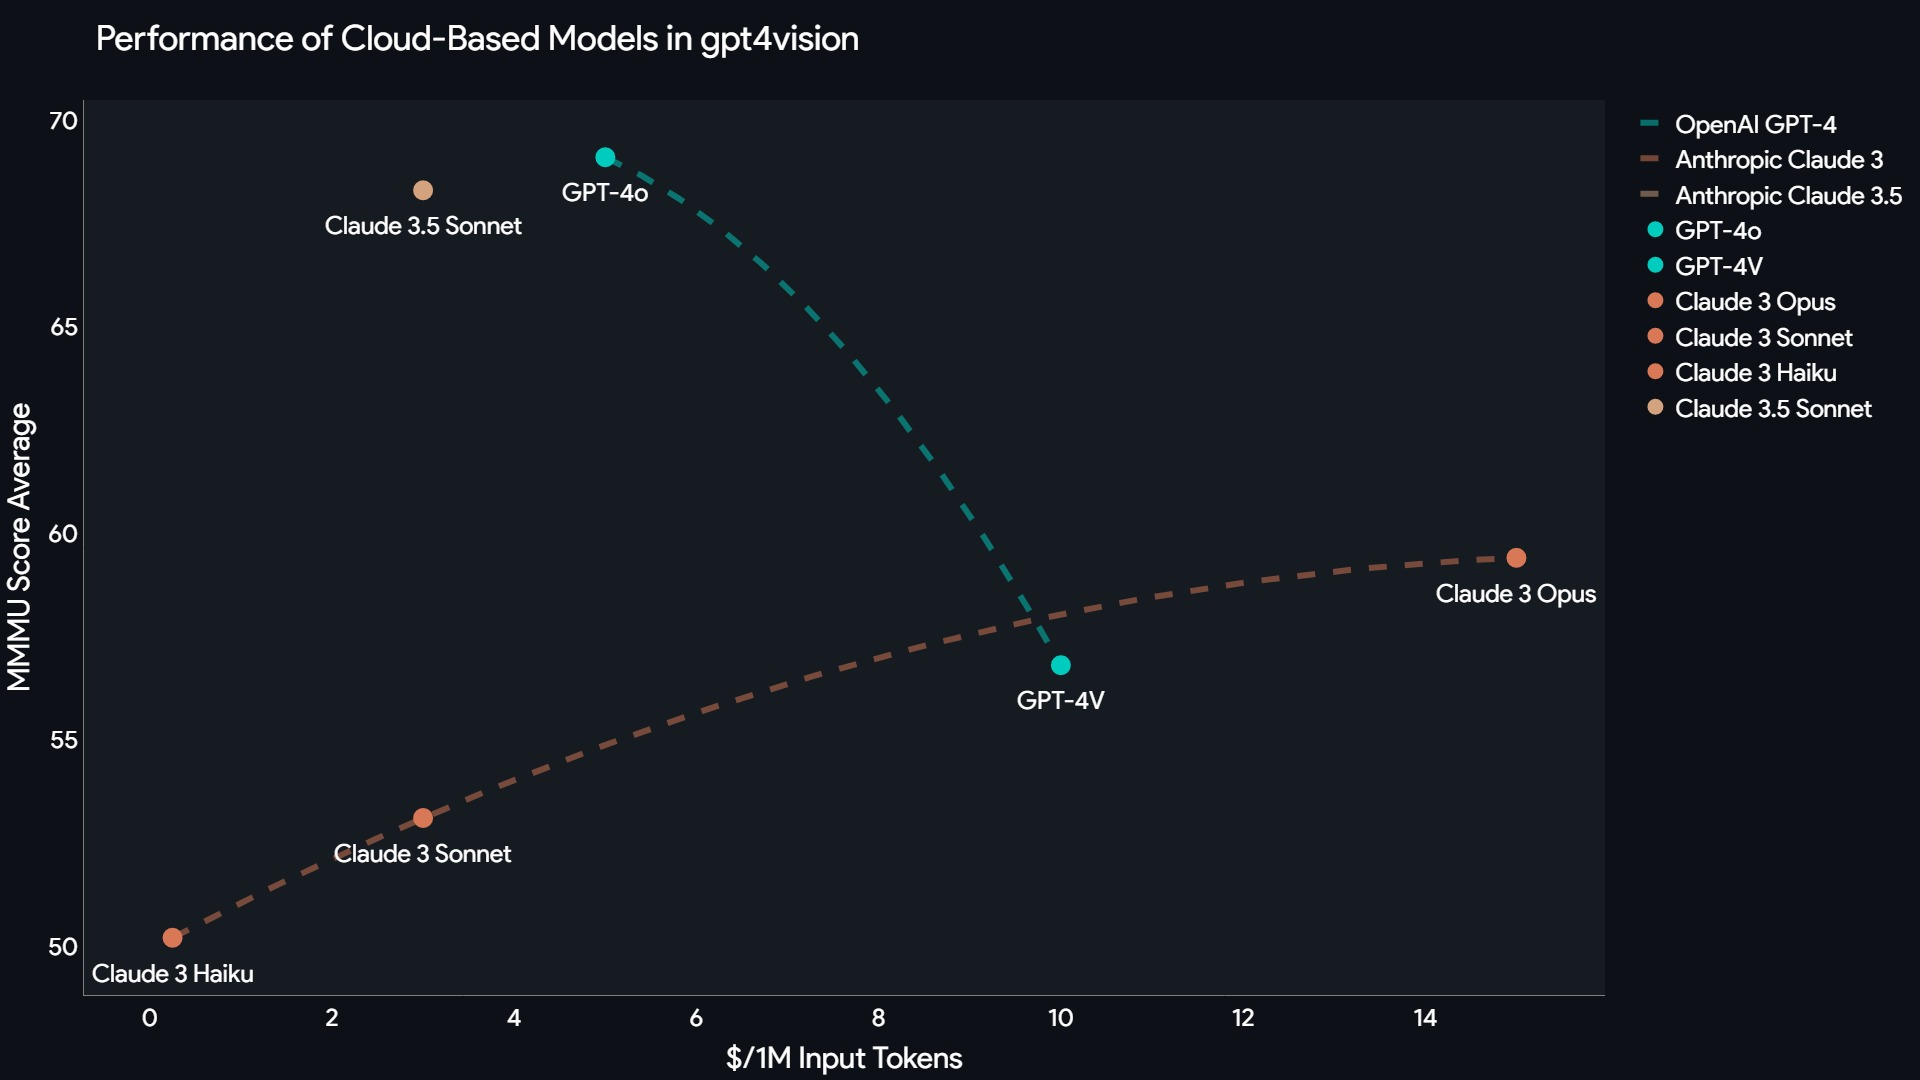
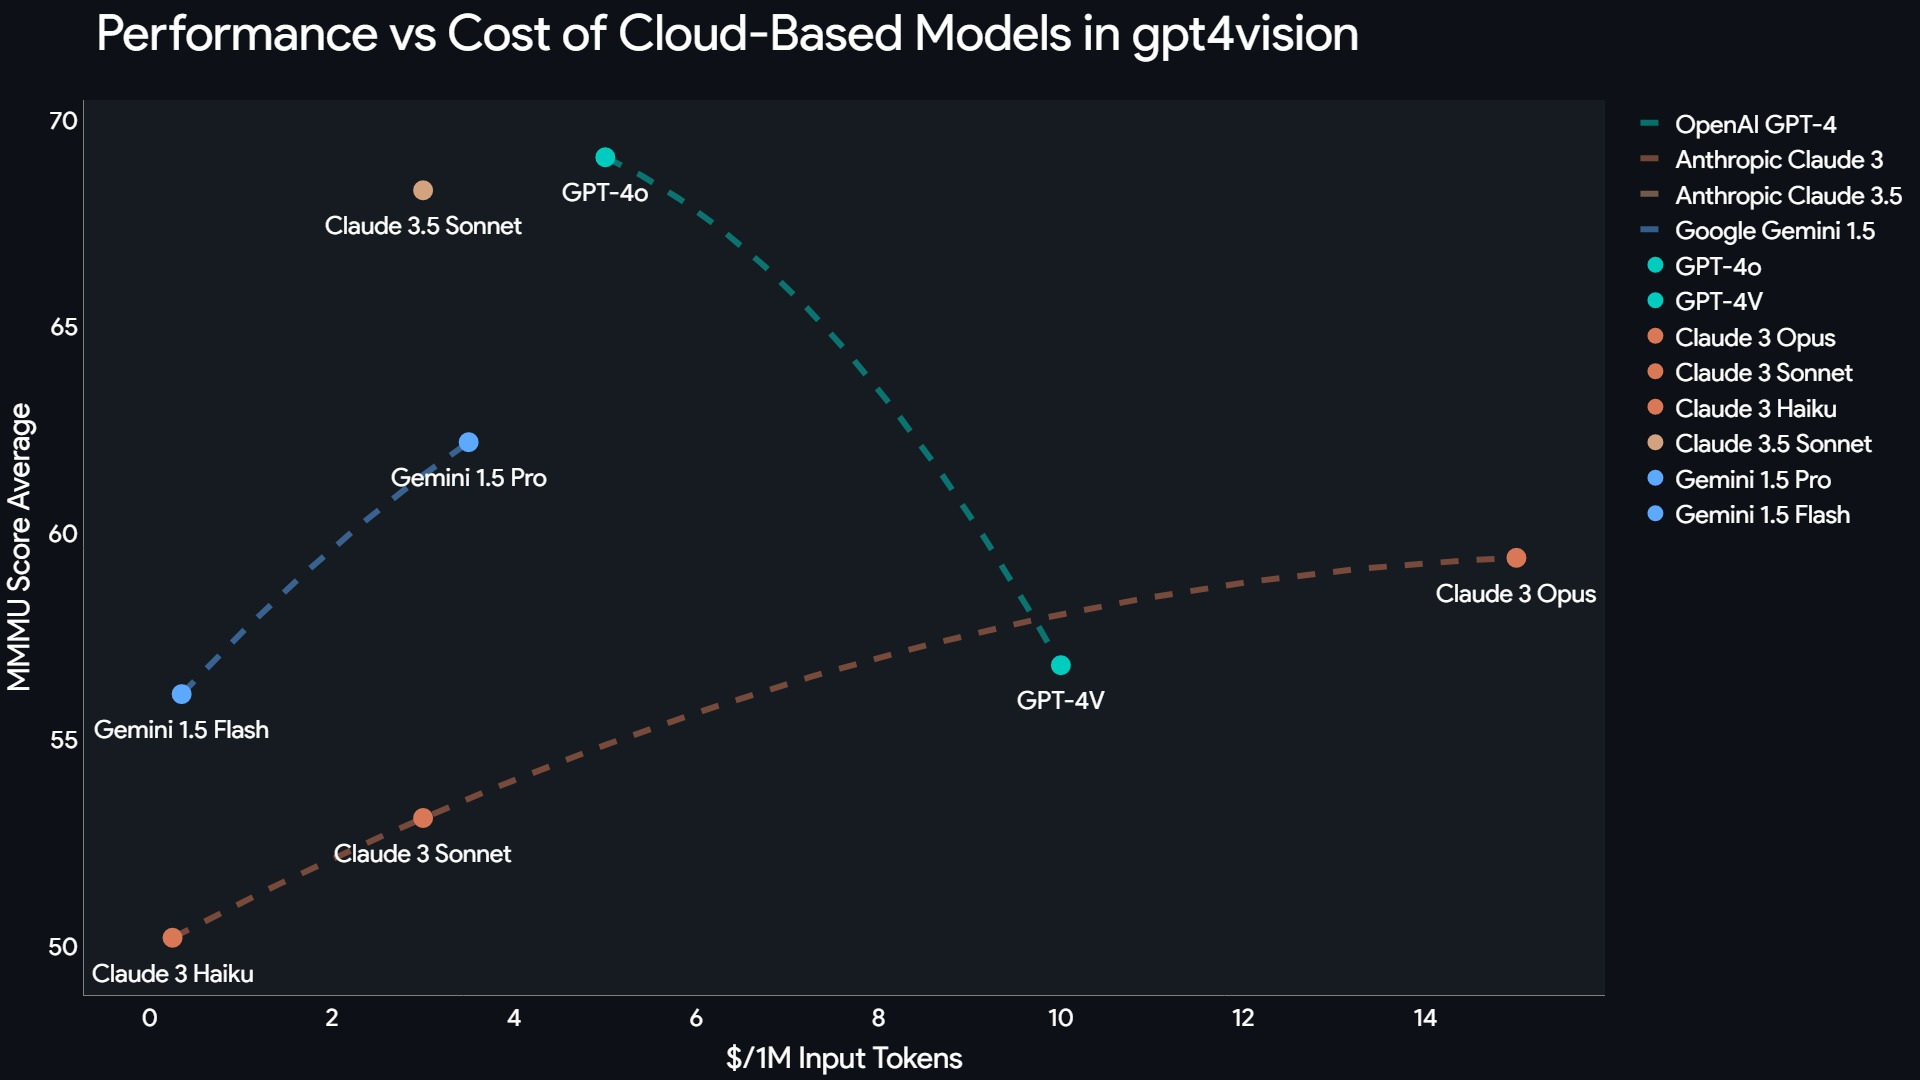
chore: Updated README for v0.4.5

diff --git a/benchmark_visualization/model_benchmark_visualizer.py b/benchmark_visualization/model_benchmark_visualizer.py
@@ -46,7 +46,8 @@ def create_benchmark_visualization(df: pd.DataFrame):
     df['Category'] = df['Model'].apply(categorize_model)
 
     # Set order for legend
-    category_order = ['GPT-4', 'Claude 3', 'Claude 3.5']  # Add 'Gemini 1.5'
+    category_order = ['GPT-4', 'Claude 3',
+                      'Claude 3.5', 'Gemini 1.5']  # Add 'Gemini 1.5'
     df['Category'] = pd.Categorical(
         df['Category'], categories=category_order, ordered=True)
     df = df.sort_values('Category')
@@ -77,26 +78,26 @@ def create_benchmark_visualization(df: pd.DataFrame):
     for index, model in df.iterrows():
         try:
             fig.add_trace(go.Scatter(x=[model['Cost']], y=[model['Overall']],
-                        mode='markers', # Removed 'text' from mode
-                        name=model['Model'], marker=dict(size=20, color=colors[model['Category']])))
+                                     mode='markers',  # Removed 'text' from mode
+                                     name=model['Model'], marker=dict(size=20, color=colors[model['Category']])))
         except Exception as e:
             continue
-    
+
         # Add model name
         fig.add_annotation(x=model['Cost'], y=model['Overall'],
                            text=model['Model'],
                            showarrow=False,
                            yshift=-35)
 
-    fig.update_layout(title='Performance of Cloud-Based Models in gpt4vision',
+    fig.update_layout(title={'text': 'Performance vs Cost of Cloud-Based Models in gpt4vision',
+                             'font': {'size': 50}},
                       xaxis_title='$/1M Input Tokens', yaxis_title='MMMU Score Average',
                       paper_bgcolor='#0d1117', plot_bgcolor='#161b22',
                       font=dict(color='white', family='Product Sans', size=25),
                       xaxis=dict(color='white', linecolor='grey',
                                  showgrid=False, zeroline=False),
                       yaxis=dict(color='white', linecolor='grey',
-                                 showgrid=False, zeroline=False)
-                      )
+                                 showgrid=False, zeroline=False))
     # Save the plot as an image
     fig.write_image("benchmark_visualization/benchmark_visualization.jpg",
                     width=1920, height=1080, scale=1)

diff --git a/README.md b/README.md
@@ -1,7 +1,7 @@
 <h1 align=center> GPT-4 Vision for Home Assistant </h1>
 <p align=center>
 <img src=https://img.shields.io/badge/HACS-Custom-orange.svg?style=for-the-badg>
-<img src=https://img.shields.io/badge/version-0.4.3-blue>
+<img src=https://img.shields.io/badge/version-0.4.5-blue>
 <a href="https://github.com/valentinfrlch/ha-gpt4vision/issues">
 <img src="https://img.shields.io/maintenance/yes/2024.svg">
 <img alt="Issues" src="https://img.shields.io/github/issues/valentinfrlch/ha-gpt4vision?color=0088ff"/>
@@ -31,10 +31,10 @@
 <br>
 
 **gpt4vision** is a Home Assistant integration that allows you to analyze images and camera feeds using GPT-4 Vision.  
-Supported providers are OpenAI, Anthropic, [LocalAI](https://github.com/mudler/LocalAI) and [Ollama](https://ollama.com/).
+Supported providers are OpenAI, Anthropic, Google Gemini, [LocalAI](https://github.com/mudler/LocalAI) and [Ollama](https://ollama.com/).
 
 ## Features
-- Compatible with OpenAI, Anthropic Claude, [LocalAI](https://github.com/mudler/LocalAI) and [Ollama](https://ollama.com/)
+- Compatible with OpenAI, Anthropic Claude, Google Gemini, [LocalAI](https://github.com/mudler/LocalAI) and [Ollama](https://ollama.com/)
 - Takes images and camera entities as input as well as image files
 - Images can be downscaled for faster processing
 - Can be installed and updated through HACS and can be set up in the Home Assistant UI
@@ -63,6 +63,9 @@ A pricing calculator is available here: [https://openai.com/api/pricing/](https:
 ### Anthropic
 Obtain an API key from [Anthropic](https://claude.ai/) and enter it in the Home Assistant UI during setup.
 Pricing is available here: [Anthropic image cost](https://docs.anthropic.com/en/docs/build-with-claude/vision#calculate-image-costs). Images can be downscaled with the built-in downscaler.
+
+### Google
+To use Google Gemini you need to have a Google account and obtain an API key from the [AI Studio](https://aistudio.google.com/app/apikey). Depending on your region, you may need to enable billing. Pricing is available here: [Gemini Pricing](https://ai.google.dev/pricing)
 
 ### LocalAI
 To use LocalAI you need to have a LocalAI server running. You can find the installation instructions [here](https://localai.io/basics/getting_started/).  During setup you'll need to provide the IP address of your machine and the port on which LocalAI is running (default is 8000).
@@ -176,10 +179,13 @@ front_door_2024-12-31_23:59:59:
 | Model Name     |       Hosting Options     | Description          |   MMMU<sup>1</sup> Score   |
 |----------------|---------------------------|----------------------|----------------|
 | GPT-4o         | Cloud (OpenAI API key required)       | Best all-round model| 69.1 |
+| Claude 3.5 Sonnet | Cloud (Anthropic API key required)      | Balance between performance and speed | 68.3
 | Claude 3 Haiku   | Cloud (Anthropic API key required)       | Fast model optimized for speed | 50.2| 
 | Claude 3 Sonnet  | Cloud (Anthropic API key required)       | Balance between performance and speed | 53.1
 | Claude 3 Opus | Cloud (Anthropic API key required)       | High-performance model for more accuracy | 59.4
-| Claude 3.5 Sonnet | Cloud (Anthropic API key required)      | Balance between performance and speed | 68.3
+| Gemini 1.5 Flash | Cloud (Google API key required)      | Fast model optimized for speed | 56.1
+| Gemini 1.5 Pro | Cloud (Google API key required)      | High-performance model for more accuracy | 62.2
+
 | LLaVA-1.6 | Self-hosted (LocalAI or Ollama)       | Open-Source alternative | 43.8
 <p align="right">Data is based on the MMMU Leaderboard<sup>2</sup></p>
 
